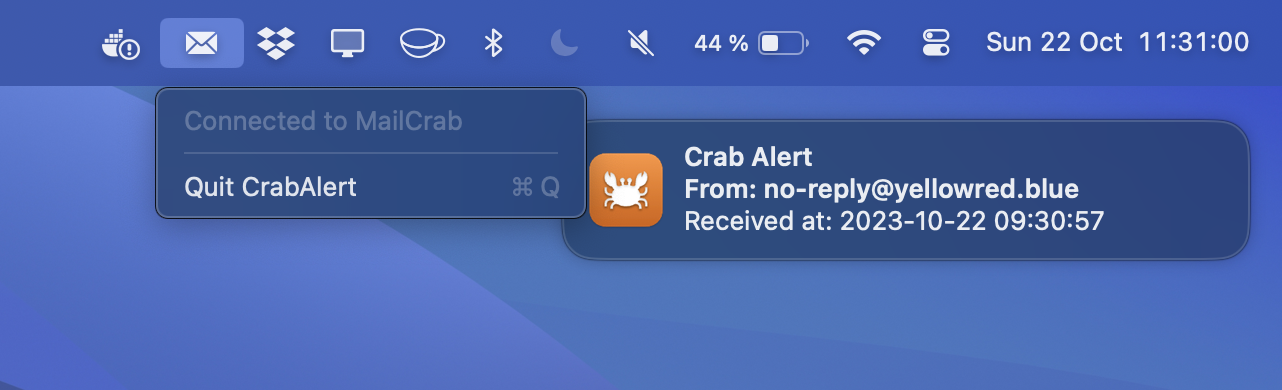
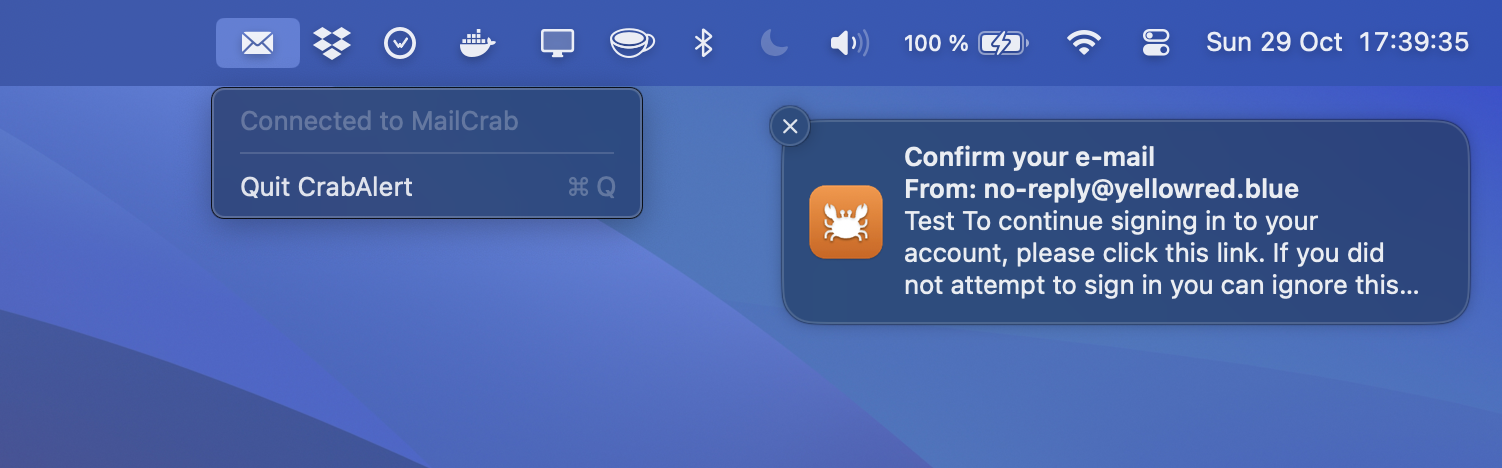
docs: updated example mailer script and screenshot

Changed region(s): [[0.0, 0.0308, 0.9984, 0.7077], [0.0, 0.6462, 0.2808, 1.0]]

diff --git a/index.js b/index.js
@@ -8,9 +8,8 @@ const mailer = nodemailer.createTransport({
   await mailer.sendMail({
     to: 'karl@yellowred.blue',
     from: 'CrabAlert <no-reply@yellowred.blue>',
-    subject: 'Crab Alert',
-    body: 'Crab Alert!',
-    html: 'Crab Alert!',
+    subject: 'Confirm your e-mail',
+    html: '\n<p>\n</p>\n <p>Test</p>\n <p>   To continue signing in to your account, please click <a href="#">this link</a>.</p><p>If you did not attempt to sign in you can ignore this e-mail.</p>',
   }).then(res => {
     console.log(res);
   }).catch(err => {
